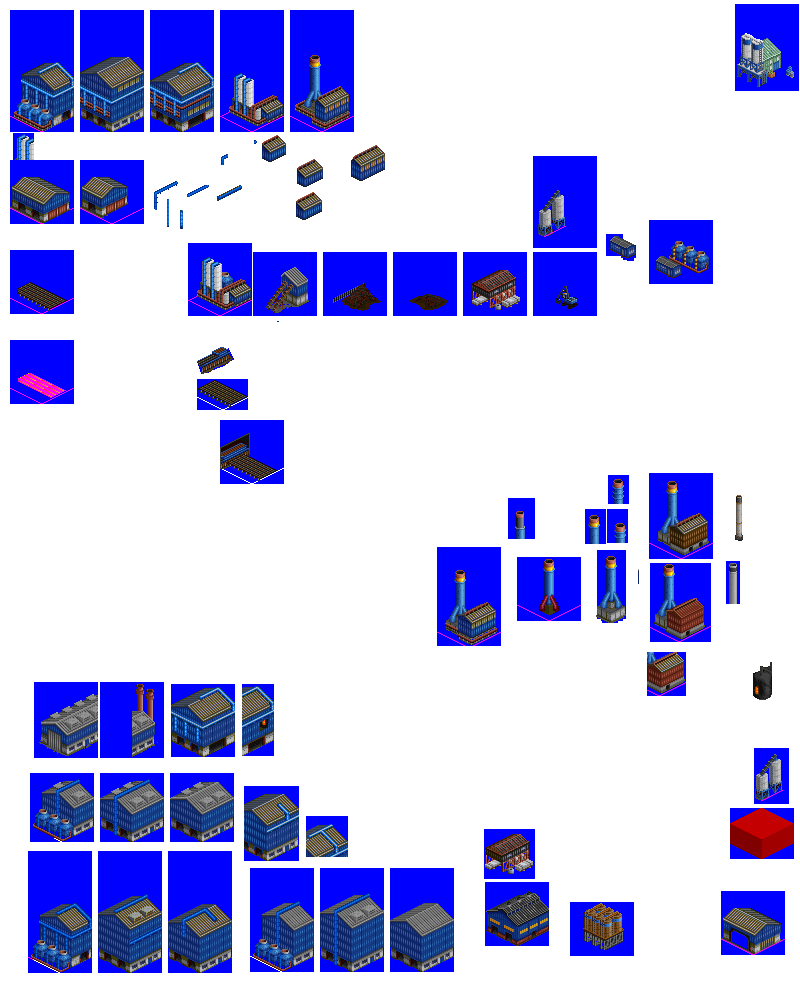
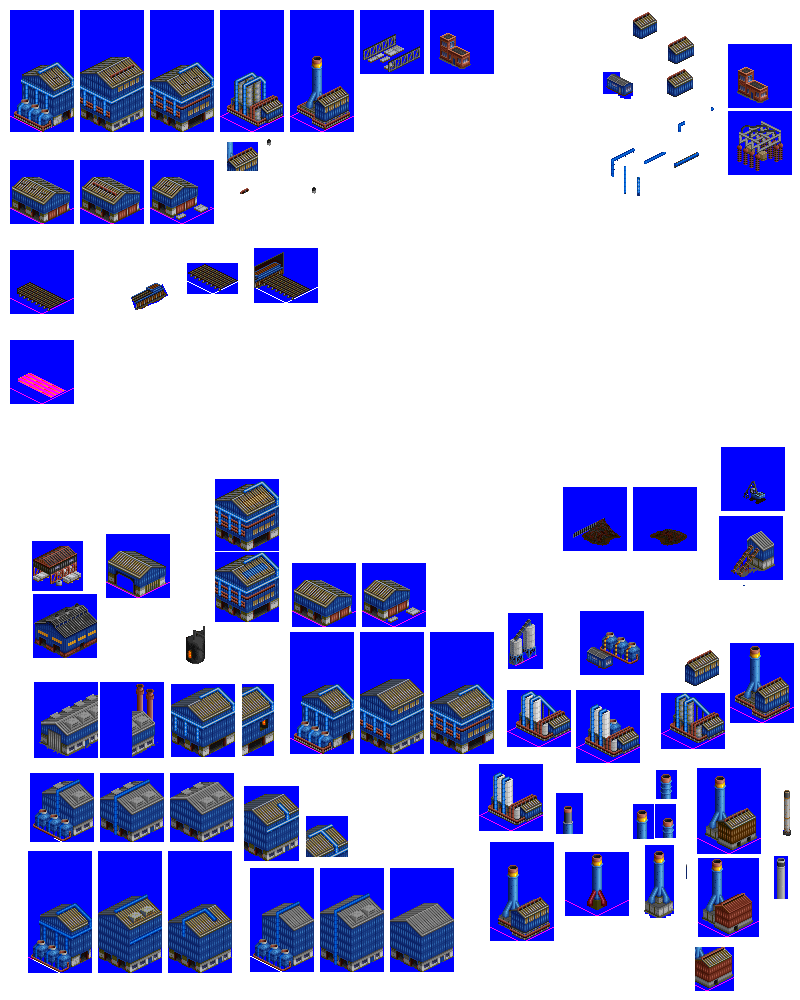
Change: EAF sprites rework more complete

diff --git a/src/industries/electric_arc_furnace.py b/src/industries/electric_arc_furnace.py
@@ -71,6 +71,9 @@ spriteset_casting_shed_1 = industry.add_spriteset(
 spriteset_casting_shed_2 = industry.add_spriteset(
     sprites=[(80, 160, 64, 64, -31, -33)],
 )
+spriteset_casting_shed_3 = industry.add_spriteset(
+    sprites=[(150, 160, 64, 64, -31, -33)],
+)
 spriteset_caster_line_roof_animated = industry.add_spriteset(
     sprites=[(80, 160, 64, 64, -31, -33)],
 )
@@ -136,6 +139,13 @@ industry.add_spritelayout(
     fences=["nw", "ne"],
 )
 industry.add_spritelayout(
+    id="electric_arc_furnace_spritelayout_casting_shed_3",
+    ground_sprite=spriteset_ground,
+    ground_overlay=spriteset_ground_overlay,
+    building_sprites=[spriteset_casting_shed_3],
+    fences=["nw", "ne"],
+)
+industry.add_spritelayout(
     id="electric_arc_furnace_spritelayout_caster_line_animated",
     ground_sprite=spriteset_ground,
     ground_overlay=spriteset_ground_overlay,
@@ -176,8 +186,8 @@ industry.add_industry_outpost_layout(
     layout=[
         # test outpost layout
         (0, 0, "electric_arc_furnace_tile_1", "electric_arc_furnace_spritelayout_casting_shed_1"),
-        (0, 1, "electric_arc_furnace_tile_1", "electric_arc_furnace_spritelayout_casting_shed_1"),
-        (0, 2, "electric_arc_furnace_tile_1", "electric_arc_furnace_spritelayout_casting_shed_2"),
+        (0, 1, "electric_arc_furnace_tile_1", "electric_arc_furnace_spritelayout_casting_shed_2"),
+        (0, 2, "electric_arc_furnace_tile_1", "electric_arc_furnace_spritelayout_casting_shed_3"),
         (1, 0, "electric_arc_furnace_tile_1", "electric_arc_furnace_spritelayout_air_plant"),
         (1, 1, "electric_arc_furnace_tile_1", "electric_arc_furnace_spritelayout_tanks"),
         (1, 2, "electric_arc_furnace_tile_1", "electric_arc_furnace_spritelayout_metal_1"),
@@ -209,7 +219,7 @@ industry.add_industry_layout(
             0,
             3,
             "electric_arc_furnace_tile_1",
-            "electric_arc_furnace_spritelayout_casting_shed_1",
+            "electric_arc_furnace_spritelayout_casting_shed_2",
         ),
         (
             0,
@@ -239,13 +249,13 @@ industry.add_industry_layout(
             1,
             3,
             "electric_arc_furnace_tile_1",
-            "electric_arc_furnace_spritelayout_casting_shed_1",
+            "electric_arc_furnace_spritelayout_casting_shed_2",
         ),
         (
             1,
             4,
             "electric_arc_furnace_tile_1",
-            "electric_arc_furnace_spritelayout_casting_shed_2",
+            "electric_arc_furnace_spritelayout_casting_shed_3",
         ),
         (
             2,
@@ -305,7 +315,7 @@ industry.add_industry_layout(
             0,
             3,
             "electric_arc_furnace_tile_1",
-            "electric_arc_furnace_spritelayout_casting_shed_1",
+            "electric_arc_furnace_spritelayout_casting_shed_2",
         ),
         (
             0,
@@ -335,13 +345,13 @@ industry.add_industry_layout(
             1,
             3,
             "electric_arc_furnace_tile_1",
-            "electric_arc_furnace_spritelayout_casting_shed_1",
+            "electric_arc_furnace_spritelayout_casting_shed_2",
         ),
         (
             1,
             4,
             "electric_arc_furnace_tile_1",
-            "electric_arc_furnace_spritelayout_casting_shed_2",
+            "electric_arc_furnace_spritelayout_casting_shed_3",
         ),
         (
             2,
